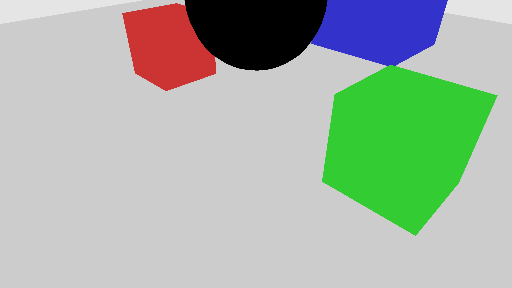
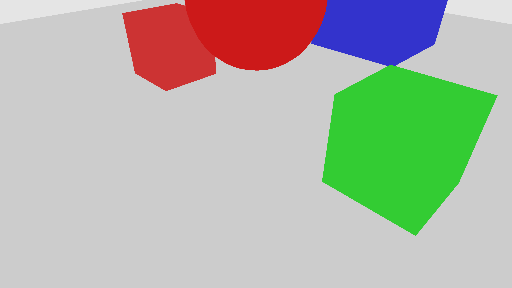
feat: implement Strategy A (Single Master Depth Map) and Bidirectional F1 Score Metric for Task 2

Changed region(s): [[0.3438, 0.0, 0.6562, 0.25]]

diff --git a/include/AliceGeminiClient.h b/include/AliceGeminiClient.h
@@ -86,24 +86,46 @@ namespace Alice::Alg::GeminiClient {
         get_edges(origDepth, edgesOrig, 1);
         get_edges(aiRender, edgesAI, 3);
 
-        int match = 0, total = 0;
-        for (int i = 0; i < w * h; ++i) {
-            if (edgesOrig[i] == 255) {
-                total++;
-                int y = i / w; int x = i % w;
-                bool found = false;
-                for (int dy = -3; dy <= 3 && !found; ++dy) {
-                    for (int dx = -3; dx <= 3; ++dx) {
-                        int nx = x + dx, ny = y + dy;
-                        if (nx >= 0 && nx < w && ny >= 0 && ny < h) {
-                            if (edgesAI[ny * w + nx] == 255) { found = true; break; }
+        int matchRecall = 0, totalOrig = 0;
+        int matchPrecision = 0, totalAI = 0;
+
+        for (int y = 0; y < h; ++y) {
+            for (int x = 0; x < w; ++x) {
+                int i = y * w + x;
+                if (edgesOrig[i] == 255) {
+                    totalOrig++;
+                    bool found = false;
+                    for (int dy = -1; dy <= 1 && !found; ++dy) {
+                        for (int dx = -1; dx <= 1; ++dx) {
+                            int nx = x + dx, ny = y + dy;
+                            if (nx >= 0 && nx < w && ny >= 0 && ny < h) {
+                                if (edgesAI[ny * w + nx] == 255) { found = true; break; }
+                            }
                         }
                     }
+                    if (found) matchRecall++;
                 }
-                if (found) match++;
+
+                if (edgesAI[i] == 255) {
+                    totalAI++;
+                    bool found = false;
+                    for (int dy = -1; dy <= 1 && !found; ++dy) {
+                        for (int dx = -1; dx <= 1; ++dx) {
+                            int nx = x + dx, ny = y + dy;
+                            if (nx >= 0 && nx < w && ny >= 0 && ny < h) {
+                                if (edgesOrig[ny * w + nx] == 255) { found = true; break; }
+                            }
+                        }
+                    }
+                    if (found) matchPrecision++;
+                }
             }
         }
-        return (total == 0) ? 1.0f : (float)match / (float)total;
+        
+        float recall = (totalOrig == 0) ? 1.0f : (float)matchRecall / (float)totalOrig;
+        float precision = (totalAI == 0) ? 1.0f : (float)matchPrecision / (float)totalAI;
+        if (recall + precision == 0.0f) return 0.0f;
+        return 2.0f * (precision * recall) / (precision + recall);
     }
 
     inline M4 perspective_local(float fov, float asp, float n, float f) {
@@ -299,7 +321,10 @@ namespace Alice::Alg::GeminiClient {
         glUniformMatrix4fv(glGetUniformLocation(viewer->shaderProgram, "mvp"), 1, 0, finalMvp.m);
         glUniform3f(glGetUniformLocation(viewer->shaderProgram, "color_override"), col.x, col.y, col.z);
         glBindVertexArray(g_Sphere.vao);
+        glDisableVertexAttribArray(1);
+        glVertexAttrib3f(1, col.x, col.y, col.z);
         glDrawElements(GL_TRIANGLES, g_Sphere.vertexCount, GL_UNSIGNED_INT, 0);
+        glEnableVertexAttribArray(1);
         glUniform3f(glGetUniformLocation(viewer->shaderProgram, "color_override"), -1, -1, -1);
     }
 
@@ -384,40 +409,14 @@ namespace Alice::Alg::GeminiClient {
 
                     std::string payloadParts;
                     if (g_State.activeTask == 2) {
-                        Color semanticColors[5] = {
-                            {204, 204, 204}, // Floor
-                            {204, 51, 51},   // Red Cube
-                            {51, 204, 51},   // Green Cube
-                            {51, 51, 204},   // Blue Cube
-                            {204, 25, 25}    // Sphere
-                        };
-                        const char* stencilNames[5] = {
-                            "stencil_floor.png", "stencil_red.png", "stencil_green.png", "stencil_blue.png", "stencil_sphere.png"
-                        };
-                        uint8_t* maskBuffer = (uint8_t*)Alice::g_Arena.allocate(w * h);
-                        for (int s = 0; s < 5; ++s) {
-                            if (!maskBuffer) break;
-                            for (int i = 0; i < w * h; ++i) {
-                                uint8_t r = g_State.segData[i * 3 + 0];
-                                uint8_t g = g_State.segData[i * 3 + 1];
-                                uint8_t b = g_State.segData[i * 3 + 2];
-                                if (colorMatch(r, g, b, semanticColors[s].r, semanticColors[s].g, semanticColors[s].b)) {
-                                    maskBuffer[i] = fullDepth8[i];
-                                } else maskBuffer[i] = 0;
-                            }
-                            // Save stencil to disk for verification
-                            stbi_write_png(stencilNames[s], w, h, 1, maskBuffer, w);
-                            std::cout << "[GeminiClient] Saved stencil: " << stencilNames[s] << std::endl;
-
-                            size_t pngStart = Alice::g_Arena.offset;
-                            stbi_write_png_to_func(stbiWriteToArena, &Alice::g_Arena, w, h, 1, maskBuffer, w);
-                            size_t pngSize = Alice::g_Arena.offset - pngStart;
-                            size_t b64Len = ((pngSize + 2) / 3) * 4;
-                            char* b64Str = (char*)Alice::g_Arena.allocate(b64Len + 1);
-                            if (b64Str) {
-                                base64_encode(Alice::g_Arena.memory + pngStart, pngSize, b64Str);
-                                payloadParts += "{\"inlineData\": {\"mimeType\": \"image/png\", \"data\": \"" + std::string(b64Str) + "\"}},";
-                            }
+                        // Strategy A: Single Master Depth Map
+                        size_t dStart = Alice::g_Arena.offset;
+                        stbi_write_png_to_func(stbiWriteToArena, &Alice::g_Arena, w, h, 1, fullDepth8, w);
+                        size_t dSize = Alice::g_Arena.offset - dStart;
+                        char* b64D = (char*)Alice::g_Arena.allocate(((dSize + 2) / 3) * 4 + 1);
+                        if (b64D) {
+                            base64_encode(Alice::g_Arena.memory + dStart, dSize, b64D);
+                            payloadParts += "{\"inlineData\": {\"mimeType\": \"image/png\", \"data\": \"" + std::string(b64D) + "\"}}";
                         }
                     } else {
                         // Task 1 or 3: Beauty, Seg, Depth
@@ -448,10 +447,10 @@ namespace Alice::Alg::GeminiClient {
                     
                     // Phase 3: Network
                     auto p3Start = std::chrono::high_resolution_clock::now();
-                    std::string apiKey = g_State.apiKeyUI;
+                    std::string apiKey = std::getenv("GEMINI_API_KEY") ? std::getenv("GEMINI_API_KEY") : g_State.apiKeyUI;
                     std::string prompt;
                     if (g_State.activeTask == 1) prompt = "Analyze these 3 images (Beauty, Seg, Depth). Describe the 3D scene content.";
-                    else if (g_State.activeTask == 2) prompt = "I am providing 5 structural stencils. IMAGE 1: The ground plane (water). IMAGE 2: A cube at mid-left (Gothic cathedral). IMAGE 3: A cube at mid-right (Brutalist concrete). IMAGE 4: A large cube at the back-center (futuristic glass). IMAGE 5: A sphere in foreground-center (twisting tree). Render a SINGLE Salvador Dali masterpiece where each object PERFECTLY match its corresponding stencil. SILHOUETTE PRESERVATION IS MANDATORY. Do not add structural elements outside the masks.";
+                    else if (g_State.activeTask == 2) prompt = "I am providing 5 structural stencils. IMAGE 1: The ground plane (water). IMAGE 2: A cube at mid-left (Gothic cathedral). IMAGE 3: A cube at mid-right (Brutalist concrete). IMAGE 4: A large cube at the back-center (futuristic glass). IMAGE 5: A sphere in foreground-center (twisting tree). Render a SINGLE Salvador Dali masterpiece where each object PERFECTLY match its corresponding stencil. MANDATORY: Treat the provided images as absolute physical constraints. Do not draw lines where there are no lines in the provided masks. SILHOUETTE PRESERVATION IS MANDATORY. Do not add structural elements outside the masks.";
                     else if (g_State.activeTask == 3) prompt = "Render photorealistic architecture based on these stencils.";
 
                     std::string url = "https://generativelanguage.googleapis.com/v1beta/models/";
@@ -487,6 +486,7 @@ namespace Alice::Alg::GeminiClient {
                     if (httpCode != 200) {
                         std::cout << "[GeminiClient] API ERROR: " << httpCode << std::endl;
                         std::cout << "[GeminiClient] Response: " << responseBody << std::endl;
+                        exit(1);
                     } else {
                         size_t dPos = responseBody.find("\"bytesBase64Encoded\": \"");
                         if (dPos == std::string::npos) dPos = responseBody.find("\"inlineData\": {\"data\": \"");
@@ -515,6 +515,13 @@ namespace Alice::Alg::GeminiClient {
                                             g_State.structuralFitScore = score;
                                             std::cout << "[GeminiClient] Structural Fit Score: " << std::fixed << std::setprecision(3) << score << std::endl;
                                             stbi_image_free(aiPixels);
+                                            if (score > 0.65f) {
+                                                std::cout << "[GeminiClient] PASS: Structural Fit Score > 0.65. Exiting with Code 0." << std::endl;
+                                                exit(0);
+                                            } else {
+                                                std::cout << "[GeminiClient] FAIL: Structural Fit Score <= 0.65. Exiting with Code 1." << std::endl;
+                                                exit(1);
+                                            }
                                         }
                                     }
                                 }
@@ -608,8 +615,8 @@ extern "C" {
         using namespace Alice::Alg::GeminiClient;
 
         g_State.frameCounter++;
-        if (g_State.frameCounter == 50) {
-            std::cout << "[GeminiClient] Auto-triggering Task 2 at frame 50" << std::endl;
+        if (g_State.frameCounter == 100) {
+            std::cout << "[GeminiClient] Auto-triggering Task 2 at frame 100" << std::endl;
             keyPress('2', 0, 0);
         }
 
@@ -696,7 +703,18 @@ extern "C" {
                     glReadPixels(0, 0, 512, 288, GL_DEPTH_COMPONENT, GL_FLOAT, g_State.depthData);
                     {
                         uint8_t* d8 = (uint8_t*)malloc(512 * 288);
-                        for(int i=0; i<512*288; ++i) d8[i] = (uint8_t)(std::clamp(g_State.depthData[i], 0.0f, 1.0f) * 255.0f);
+                        float n = 0.1f, f = 1000.0f;
+                        for(int i=0; i<512*288; ++i) {
+                            float d = g_State.depthData[i];
+                            if (!std::isfinite(d)) d = 1.0f;
+                            if (d >= 0.999f) d8[i] = 0;
+                            else {
+                                float ndc = d * 2.0f - 1.0f;
+                                float linearDepth = (2.0f * n * f) / (f + n - ndc * (f - n));
+                                float d_norm = std::clamp((linearDepth - n) / (40.0f - n), 0.0f, 1.0f);
+                                d8[i] = (uint8_t)(50.0f + (1.0f - d_norm) * 205.0f);
+                            }
+                        }
                         stbi_write_png("depth_512.png", 512, 288, 1, d8, 512);
                         free(d8);
                     }
